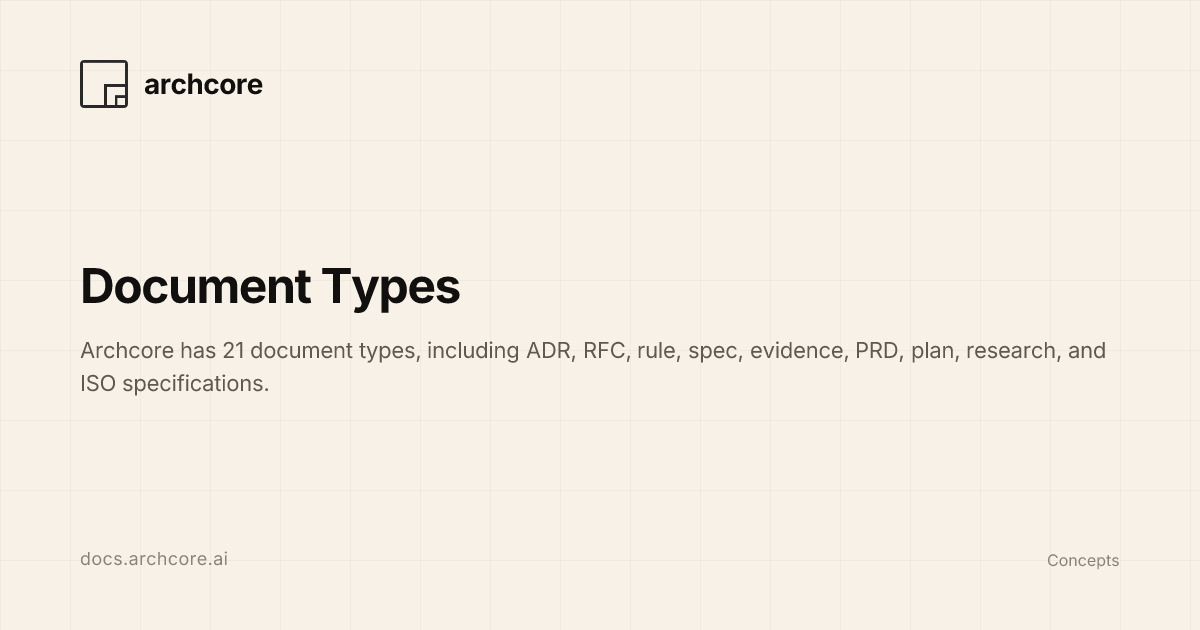
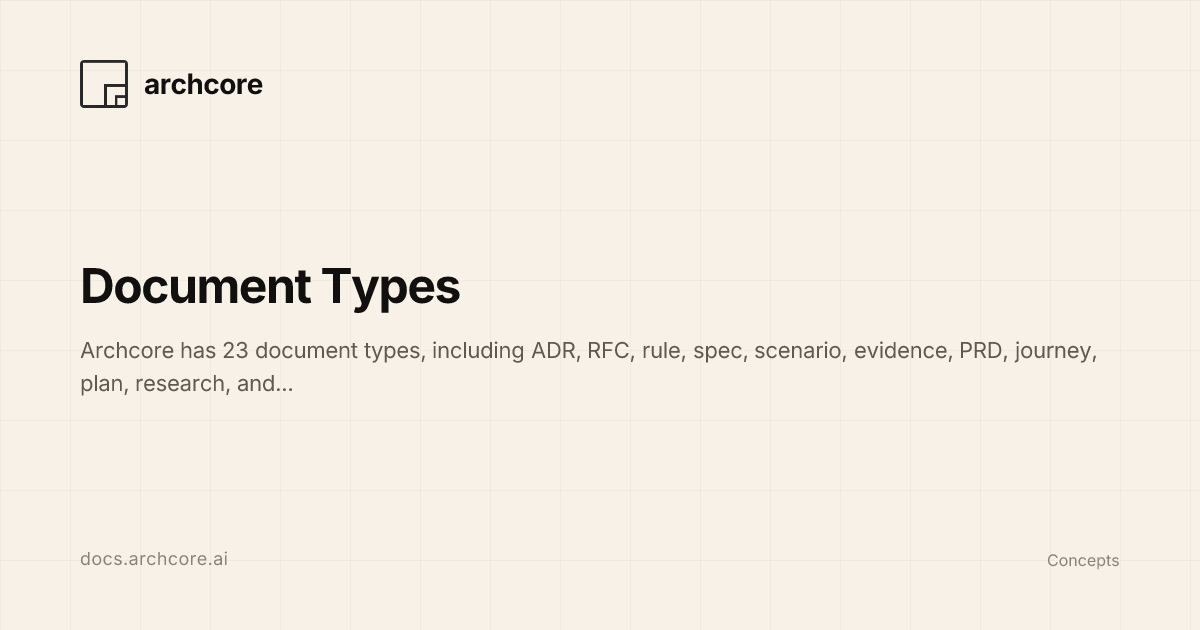
fix: udpate latest changes for cli / plugin

Changed region(s): [[0.185, 0.5429, 0.925, 0.573], [0.0617, 0.573, 0.2467, 0.6333]]

diff --git a/src/content/docs/concepts/document-types.md b/src/content/docs/concepts/document-types.md
@@ -1,9 +1,9 @@
 ---
 title: Document Types
-description: Archcore has 21 document types, including ADR, RFC, rule, spec, evidence, PRD, plan, research, and ISO specifications.
+description: Archcore has 23 document types, including ADR, RFC, rule, spec, scenario, evidence, PRD, journey, plan, research, and ISO specifications.
 ---
 
-Archcore has 21 document types organized into 3 categories: 12 vision, 7 knowledge, and 2 experience. Each type has a template that the Archcore CLI generates. If you have not installed the CLI yet, get it from the [CLI page](https://archcore.ai/cli/).
+Archcore has 23 document types organized into 3 categories: 13 vision, 8 knowledge, and 2 experience. Each type has a template that the Archcore CLI generates. If you have not installed the CLI yet, get it from the [CLI page](https://archcore.ai/cli/).
 
 The template sections listed below are what the CLI writes into a new document. A narrower set is checked after every write, and [Precision checks](/reference/document-format/#precision-checks) lists it per type.
 
@@ -15,10 +15,12 @@ Need to propose a change for review?       → rfc
 Need to enforce a team standard?           → rule
 Need step-by-step instructions?            → guide
 Need a contract for a boundary or feature? → spec
+Need user flows and examples for a spec?   → scenario
 Need reference/lookup material?            → doc
 Need a record of one external material?    → evidence
 Need to define product requirements?       → prd
 Need to capture an early idea?             → idea
+Need a user path before any spec exists?   → journey
 Need to investigate before deciding?       → rnd
 Need to map a territory with no decision?  → research
 Need to plan implementation tasks?         → plan
@@ -45,7 +47,7 @@ Where the product and project are heading. Vision documents are organized into t
 
 ### Product track (simple)
 
-The starting point for most teams. Five types that cover the lifecycle from investigation through implementation.
+The starting point for most teams. Six types that cover the lifecycle from investigation through implementation.
 
 #### PRD (Product Requirements Document)
 
@@ -66,6 +68,25 @@ A product or technical concept that needs capturing before it is fully formed.
 | **File extension** | `.idea.md` |
 | **When to use** | A concept needs capturing for future evaluation |
 | **Template sections** | Idea, Value, Possible Implementation, Risks and Constraints, Next Steps |
+
+#### Journey
+
+The intended path of one user type through the system, written before a `spec` covering this interaction exists. Every step takes the actor as its subject and carries no data. Requires Archcore CLI 0.8.4 or later.
+
+| | |
+|---|---|
+| **File extension** | `.journey.md` |
+| **When to use** | You want to agree on how a user should move through the system, and no spec for this interaction exists yet |
+| **Template sections** | Intent, Actors, Journeys, Open Questions |
+
+Intent opens with the header `In order to [goal] / As a [actor] / I want [outcome]`. Actors is a table with the columns `Actor`, `Who they are`, and `What they want`. Journeys holds one `###` subsection per actor, with numbered steps and an `Extensions` list.
+
+The status of a `journey` records team agreement:
+
+- `accepted`: the team agreed this is the wanted interaction
+- `rejected`: the interaction was abandoned
+
+By convention, a `journey` is `related` to its `prd` or `idea`. When a spec for the interaction exists, record the flow as a [`scenario`](#scenario) that `implements` the journey.
 
 #### RnD
 
@@ -209,13 +230,13 @@ Per-function and per-endpoint specifications with a verification matrix.
 
 | Track | Documents | Best for |
 |---|---|---|
-| Product (`prd`) | `idea` -> `prd` -> `spec` -> `plan` | Individual features, small teams, rapid prototyping, internal tools |
+| Product (`prd`) | `idea` -> `prd` -> `spec` -> `plan`, with an optional `journey` and `scenario` | Individual features, small teams, rapid prototyping, internal tools |
 | Sources (discovery) | `mrd` -> `brd` -> `urd` | Product teams doing discovery, stakeholder alignment, business analysis |
 | ISO (decomposition) | `brs` -> `strs` -> `syrs` -> `srs` | Regulated systems, multi-team projects, complex distributed systems |
 
 Default to the Product track; move to Sources or ISO only when the project demands it.
 
-The Archcore plugin produces these documents through [`/archcore:plan`](/guides/commands/#archcoreplan), which computes which of them a request actually needs. Naming `sdd`, `sources`, `iso`, or `research` in the invocation runs that track's path directly. Without the plugin, create the same documents through the MCP tools in the same order.
+The Archcore plugin produces these documents through [`/archcore:plan`](/guides/commands/#archcoreplan), which computes which of them a request actually needs. Putting `sdd`, `sources`, `iso`, or `research` as the first word runs that track's path directly. Without the plugin, create the same documents through the MCP tools in the same order.
 
 All three tracks can coexist. For example, use the Product track for a small feature while the full ISO track covers a safety-critical subsystem.
 
@@ -238,13 +259,14 @@ The Sources and ISO tracks overlap in subject matter but differ in formality:
 - **BRS vs BRD**: BRS is an ISO specification (formalized structure). BRD is an informal source (business justification, ROI). BRS formalizes what BRD captures.
 - **StRS vs URD**: StRS is an ISO specification (per-class requirements with ConOps). URD is an informal source (personas, journeys). StRS formalizes what URD captures.
 - **SyRS vs SRS**: SyRS defines the whole system boundary. SRS specifies a single component's detailed behavior.
+- **Journey vs URD, scenario vs StRS**: `journey` and `scenario` belong to the Product track beside `prd` and `spec`. URD User Journeys and StRS Operational Scenarios belong to the Sources and ISO tracks. Use the Product-track pair unless your project runs those tracks.
 :::
 
 ---
 
 ## Knowledge
 
-Decisions, standards, reference material, and records of external materials.
+Decisions, standards, reference material, user flows, and records of external materials.
 
 ### ADR (Architecture Decision Record)
 
@@ -398,6 +420,63 @@ invariants, and all failure rules above.
 A **spec** defines a normative contract for a specific technical boundary: how a component *must* behave. A **doc** is non-behavioral reference material (registries, glossaries, lookup tables). A **rule** sets a cross-cutting team standard ("Always do X"). If you are documenting how one system works → `spec`. If you are describing what exists → `doc`. If you are prescribing how engineers must act → `rule`. If the document answers "what should we build and why" (user stories, priorities, success metrics) → `prd` or an ISO type, not a spec.
 :::
 
+### Scenario
+
+How a user or an external actor moves through the system, with concrete Given/When/Then examples that illustrate the clauses of one existing `spec`. Every step takes the actor as its subject and carries no BCP 14 modal. The rules stay in the spec. Requires Archcore CLI 0.8.4 or later.
+
+| | |
+|---|---|
+| **File extension** | `.scenario.md` |
+| **When to use** | A spec exists, and you need to show how an actor uses it, with concrete examples |
+| **Template sections** | Subject, Actors, Flows, Examples, Open Questions |
+
+Flows holds one `###` subsection per actor. Each subsection opens with an `Anchors:` line of `@path` references to the code and test files that the flow walks. Examples holds a `Background` block and titled examples, each with an `Illustrates:` line and unfenced Given/When/Then lines. Keep the body at or under 120 lines; past that, split the scenario by actor.
+
+```markdown
+---
+title: Refund Request
+status: draft
+tags:
+  - "actor:customer"
+---
+
+## Subject
+Order service refunds — the system this document illustrates.
+
+Illustrates: clauses 1 and 2 of the linked spec.
+
+## Actors
+| Actor | Who they are | What they want |
+|---|---|---|
+| Customer | A buyer with a paid order | Money back for a returned book |
+
+## Flows
+### Customer
+Anchors: @src/refunds/handler.go, @features/refund.feature
+
+1. Customer requests a refund; the service shows the refund as approved.
+
+## Examples
+### Refund within 14 days
+
+Illustrates: clause 1
+
+Given Anna bought a book on 1 Sep
+When she requests a refund on 10 Sep
+Then she sees the refund approved
+```
+
+Archcore does not run a scenario. Executable examples stay in your test tree, for example `features/*.feature`, and a document cites them with `@path`. The status of a `scenario` records a reader's check:
+
+- `accepted`: a reader confirmed the examples against the running system, by a test run or by hand
+- `rejected`: the examples no longer hold and no replacement was written
+
+By convention, a `scenario` `depends_on` the one `spec` it illustrates, so an edit to the spec reaches the scenario through the cascade notice. A scenario `implements` its `journey` when one exists. Tags such as `actor:<type>`, `component:<name>`, and `nfr:<concern>` are a convention, not a fixed list.
+
+:::note[Spec vs Scenario vs Journey]
+The subject of the line decides. A **spec** clause obligates the component with a modal: "WHEN the user requests a refund, the service MUST approve it". A **scenario** step takes the actor as its subject and has no modal: "Anna requests a refund on 10 Sep; she sees the refund approved". If a spec that the document illustrates exists, use `scenario`. If no spec exists yet, use `journey`.
+:::
+
 ### Doc
 
 Non-behavioral reference material: registries, glossaries, lookup tables, and component lists.
@@ -509,6 +588,9 @@ Each kind of content has one owning document type and one section inside it. A t
 | Error, edge, and degradation handling | `spec` | Failure Behavior |
 | Phases, tasks, milestones, delivery dates | `plan` | Tasks |
 | Rejected alternative and the reason it was rejected | `adr` | Alternatives Considered |
+| Intended user path before a spec exists | `journey` | Journeys |
+| User flow anchored to code | `scenario` | Flows |
+| Concrete example with data that illustrates a spec clause | `scenario` | Examples |
 
 Two documents holding one statement have no single owner. An edit to one leaves the other stating the opposite, and a reader cannot tell which of the two binds.
 

diff --git a/src/content/docs/reference/document-format.md b/src/content/docs/reference/document-format.md
@@ -163,7 +163,7 @@ Every document type carries one of two profiles. The profile decides which check
 | Profile | Meaning | Types |
 | ------- | ------- | ----- |
 | STE | Lines instruct or obligate | `spec`, `rule`, `guide`, `task-type`, `brs`, `strs`, `syrs`, `srs` |
-| ISO | Lines argue or describe | `adr`, `rfc`, `doc`, `evidence`, `prd`, `plan`, `idea`, `rnd`, `research`, `cpat`, `mrd`, `brd`, `urd` |
+| ISO | Lines argue or describe | `adr`, `rfc`, `doc`, `evidence`, `scenario`, `prd`, `plan`, `idea`, `rnd`, `research`, `journey`, `cpat`, `mrd`, `brd`, `urd` |
 
 Two further tables decide which numbered items a check may read at all.
 
@@ -171,8 +171,9 @@ Two further tables decide which numbered items a check may read at all.
 | ----- | ------------------ | ------------------ |
 | Graded clauses | `spec`: Normative Behavior, Failure Behavior. `rule`: Rule | Requirements graded with a BCP 14 modal |
 | Procedure steps | `guide`: Steps. `task-type`: Steps. `plan`: Tasks | Actions the reader takes |
+| Actor-subject steps | `scenario`: Flows, Examples. `journey`: Journeys | Actions an actor takes, or Given/When/Then observations |
 
-A numbered item outside these sections is prose. An `adr` enumerates its alternatives without owing them a modal, and the four ISO 29148 types carry their requirements as identified table rows rather than numbered clauses, so neither is graded as a clause.
+A numbered item outside these sections is prose. In an actor-subject section, a line that opens with `Given`, `When`, `Then`, `And`, or `But` is a step whether or not it carries a number. An `adr` enumerates its alternatives without owing them a modal, and the four ISO 29148 types carry their requirements as identified table rows rather than numbered clauses, so neither is graded as a clause.
 
 ### Checks that run on every type
 
@@ -184,7 +185,7 @@ A numbered item outside these sections is prose. An `adr` enumerates its alterna
 | Frontmatter | `title` is missing or empty, or `status` is missing or invalid |
 | Placeholder body | The body is under 200 characters, counted in characters so a short non-ASCII document is flagged the same way |
 | Cross-document links | The body links other `.archcore/` documents instead of using `add_relation`. Up to 3 are named |
-| Long code block | A code block of 5 or more lines in a type that argues rather than instructs: `adr`, `rfc`, `doc`, and every vision type except `rnd` and `research`. A `rule`, a `guide`, a `cpat`, and an `evidence` are exempt, because the literal text is the artifact |
+| Long code block | A code block of 5 or more lines in a type that argues rather than instructs: `adr`, `rfc`, `doc`, `prd`, `idea`, `plan`, `mrd`, `brd`, `urd`, `brs`, `strs`, `syrs`, and `srs`. Other types are exempt. A `rule`, a `guide`, a `cpat`, and an `evidence` need the literal text, because that text is the artifact |
 | Restatement | A statement survived a move from a linked document nearly word for word. See [Restatement](#restatement) |
 
 The vagueness lexicon covers English (`appropriate`, `robust`, `scalable`, `modern`, `various`, `optimal`, `efficient`, `flexible`, `convenient`, `seamless`, `streamlined`), Russian stems (`оптимальн`, `удобн`, `правильн`, `надёжн`, `надежн`, `гибк`, `современн`, `передов`, `эффективн`, `масштабируем`), and the phrases `best practices`, `as needed`, `world class`, and `cutting edge`.
@@ -196,12 +197,12 @@ These read the graded clauses and the procedure steps of the type, so a type out
 | Finding | Fires when |
 | ------- | ---------- |
 | Requirement over 25 words | A graded clause runs past the word cap |
-| Step over 20 words | A procedure step runs past the word cap |
+| Step over 20 words | A procedure step or an actor-subject step runs past the word cap |
 | Compound requirement | A graded clause carries two modals. `MUST NOT` counts once |
 | Condition after the obligation | A graded clause states its trigger after the response instead of opening with `WHEN`, `WHILE`, or `IF` |
 | Open-ended list | A clause or step ends with `etc.`, `and so on`, `и т.д.`, or `и т.п.` |
 | Ambiguous alternative | A clause or step uses `and/or` or `и/или` |
-| BCP 14 modal in a step | A procedure step carries `MUST`, `SHOULD`, `SHALL`, or `MAY` |
+| BCP 14 modal in a step | A procedure step or an actor-subject step carries `MUST`, `SHOULD`, `SHALL`, or `MAY` |
 | BCP 14 modal in a claim | A numbered item of an ISO-profile type carries a modal. The graded behavior belongs in a linked `spec` or `rule` |
 
 Modals are matched case-sensitively. A lowercase `must` in prose is not a graded obligation and is not reported.
@@ -211,7 +212,7 @@ Modals are matched case-sensitively. A lowercase `must` in prose is not a graded
 | Type | Finding | Fires when |
 | ---- | ------- | ---------- |
 | `spec` | SHALL notation | The body uses `SHALL` instead of `MUST`, `SHOULD`, or `MAY` |
-| `spec` | Oversized spec | The body exceeds 120 lines |
+| `spec`, `scenario`, `journey` | Oversized body | The body exceeds 120 lines. The finding names the line count and the cap |
 | `spec` | Subjectless passive | A graded clause states an obligation with no obligated component as its subject. Up to 3 are named |
 | `prd` | EARS clause in a requirement | A numbered requirement opens with `WHEN`, `WHILE`, or `IF`. A `prd` requirement states an outcome, and the trigger and response form belongs in a `spec` |
 | `rule` | No file target | No graded clause names a path or a glob, so the [code-alignment injection](/guides/connect-your-agent/#code-alignment-injection) can never match the rule to an edited file |
@@ -220,6 +221,8 @@ Modals are matched case-sensitively. A lowercase `must` in prose is not a graded
 | `adr` | One alternative recorded | Alternatives Considered holds a single item |
 | `adr` | Alternative with no stated reason | An alternative does not say what ruled it out. Up to 5 are named |
 | `cpat` | Before or After holds no code block | The section describes the form that changed instead of showing it |
+| `scenario` | Flow without an Anchors line | A `###` subsection under Flows has no line that opens with `Anchors:` |
+| `scenario`, `journey` | Step opens with no actor | A step under Flows or Journeys opens with neither an actor from the Actors table nor `Given`, `When`, `Then`, `And`, or `But`. Skipped when the Actors table is absent |
 
 ### Thresholds
 
@@ -229,7 +232,7 @@ Modals are matched case-sensitively. A lowercase `must` in prose is not a graded
 | Minimum body length | 200 characters |
 | Graded clause length | 25 words |
 | Procedure step length | 20 words |
-| `spec` body length | 120 lines |
+| `spec`, `scenario`, and `journey` body length | 120 lines each |
 | Code block length in an ISO-profile type | 5 lines |
 | Restatement overlap | 0.85 |
 | Documents read per restatement check | 5 |
@@ -263,6 +266,8 @@ A heading matches by prefix, followed by whitespace or the end of the line. `## 
 | `srs` | Purpose and Scope, Software Requirements, External Interfaces, Verification Matrix |
 | `task-type` | When to Use, Steps |
 | `cpat` | Why, Before, After, Scope |
+| `scenario` | Subject, Actors, Flows, Examples, Open Questions |
+| `journey` | Intent, Actors, Journeys, Open Questions |
 
 Several sections accept an older spelling so a rename does not turn existing documents into findings. `Alternatives` satisfies Alternatives Considered, `Procedure` satisfies Steps, `Contract Surface` satisfies Surface, `Rationale` satisfies a `cpat`'s Why, `ConOps` satisfies Operational Concept, and `Verification` satisfies both Verification Approach and Verification Matrix.
 
@@ -279,6 +284,9 @@ Each kind of content has one owning document type and one section inside it. A t
 | Error, edge, and degradation handling | `spec` | Failure Behavior |
 | Phases, tasks, milestones, delivery dates | `plan` | Tasks |
 | Rejected alternative and the reason it was rejected | `adr` | Alternatives Considered |
+| Intended user path before a spec exists | `journey` | Journeys |
+| User flow anchored to code | `scenario` | Flows |
+| Concrete example with data that illustrates a spec clause | `scenario` | Examples |
 
 The foreign-section check names a heading whose content another type owns, and names that type:
 
@@ -286,19 +294,23 @@ The foreign-section check names a heading whose content another type owns, and n
 section ## Normative Behavior in a prd — a spec owns that content; link the two documents instead
 ```
 
-Four types carry an ownership table:
+Seven types carry an ownership table:
 
 | Type | Headings it must not carry | Owner |
 | ---- | -------------------------- | ----- |
 | `prd` | Surface, Normative Behavior, Failure Behavior, Conformance, Solution Overview, Technical Considerations | `spec` |
 | `prd` | Tasks, Timeline, Milestones, Phases, Acceptance Criteria | `plan` |
 | `prd` | Alternatives Considered | `adr` |
+| `prd`, `spec` | Flows, Examples | `scenario` |
+| `prd`, `spec` | Journeys | `journey` |
+| `scenario`, `journey` | Surface, Normative Behavior, Failure Behavior | `spec` |
+| `scenario`, `journey` | Requirements | `prd` |
 | `mrd`, `brd`, `urd` | Mission, Goals and Objectives | `brs` |
 | `mrd`, `brd`, `urd` | Operational Concept, Stakeholder Requirements | `strs` |
 | `mrd`, `brd`, `urd` | System Requirements, Verification Approach | `syrs` |
 | `mrd`, `brd`, `urd` | Software Requirements, Verification Matrix | `srs` |
 
-Only unambiguous headings carry an owner. A `prd` names a business constraint inside its Problem Statement without owing the reader a Constraints section, so Constraints is deliberately absent and produces no finding.
+Only unambiguous headings carry an owner. A `prd` names a business constraint inside its Problem Statement without owing the reader a Constraints section, so Constraints is deliberately absent and produces no finding. A `rule` and a `doc` have their own Examples section, so the Examples row applies only to `prd` and `spec`.
 
 ### Restatement
 

diff --git a/src/content/docs/reference/mcp-tools.md b/src/content/docs/reference/mcp-tools.md
@@ -154,7 +154,7 @@ A single-word query behaves identically under `all` and `exact`.
 
   The score is `100 × (best path-ref specificity + Σ content-word specificities) + capped occurrence count`. Per word, a title hit scores 3, a hit on a markdown heading line scores 2, and any other body hit scores 1. The occurrence count is capped at 20, so a term-stuffed body cannot outrank a structural hit. A repeated path reference contributes its single best hit rather than a sum.
 
-  Type priority, from first to last, is `rule`, `adr`, `rfc`, `spec`, `cpat`, `guide`, `plan`, `idea`, `rnd`, `prd`, `brs`, `syrs`, `srs`, `strs`, `mrd`, `brd`, `urd`, `doc`, `task-type`; `research` and `evidence` sort after all of them.
+  Type priority, from first to last, is `rule`, `adr`, `rfc`, `spec`, `cpat`, `guide`, `plan`, `idea`, `rnd`, `prd`, `brs`, `syrs`, `srs`, `strs`, `mrd`, `brd`, `urd`, `doc`, `task-type`; `research`, `evidence`, `scenario`, and `journey` sort after all of them.
 
   A global document's effective modification time is treated as zero, because a vendored global's mtime is its clone date and not a relevance signal. On a tie across every other key, the local document therefore ranks first.
 - `mtime`: orders purely by modification time, newest first.
@@ -259,7 +259,7 @@ Create a new document. Generates from template if no content is provided. Reject
 
 | Name        | Type     | Required | Description                                       |
 | ----------- | -------- | -------- | ------------------------------------------------- |
-| `type`      | string   | Yes      | One of the 21 [document types](/concepts/document-types/), including `research` and `evidence` from CLI v0.8.3 |
+| `type`      | string   | Yes      | One of the 23 [document types](/concepts/document-types/), including `research` and `evidence` from CLI v0.8.3 and `scenario` and `journey` from CLI v0.8.4 |
 | `filename`  | string   | Yes      | Slug for the filename (lowercase, hyphens only)   |
 | `title`     | string   | No       | Human-readable title                              |
 | `status`    | string   | No       | Status: `draft` (default), `accepted`, `rejected` |
